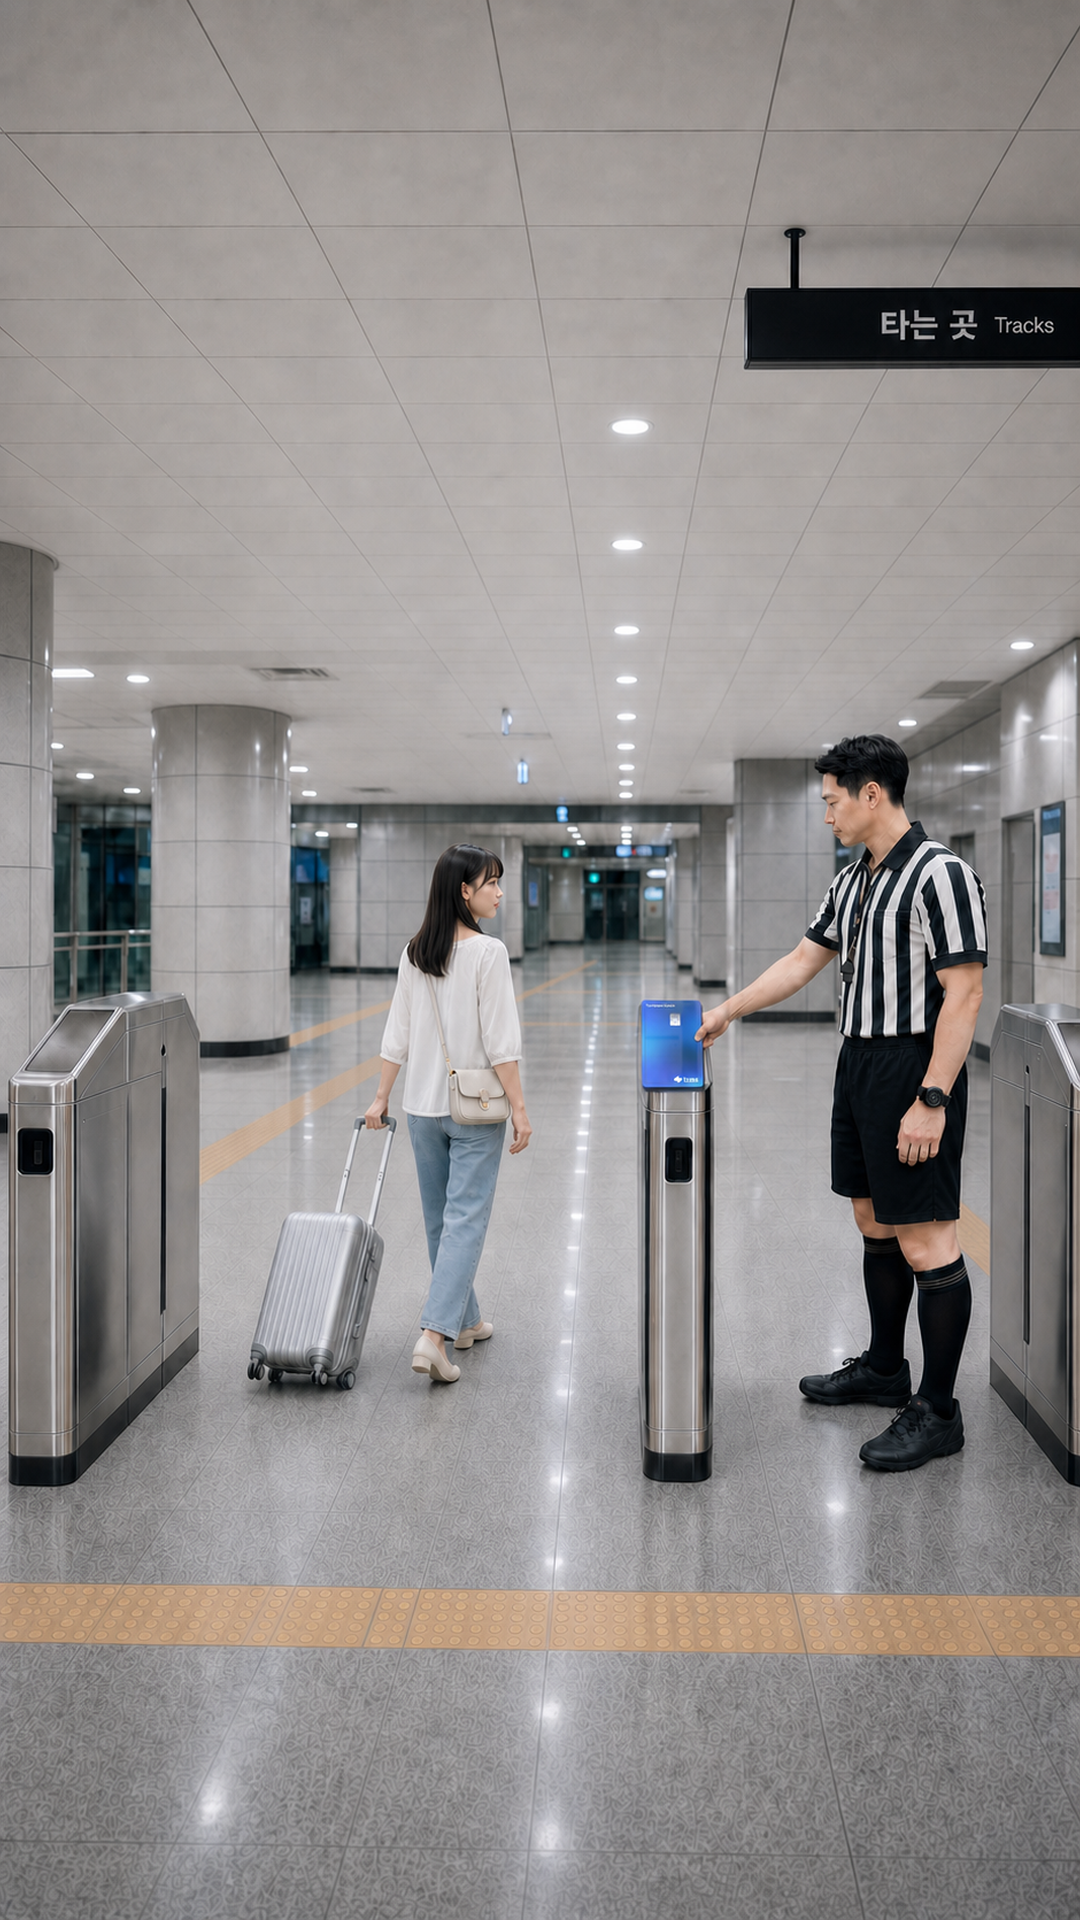
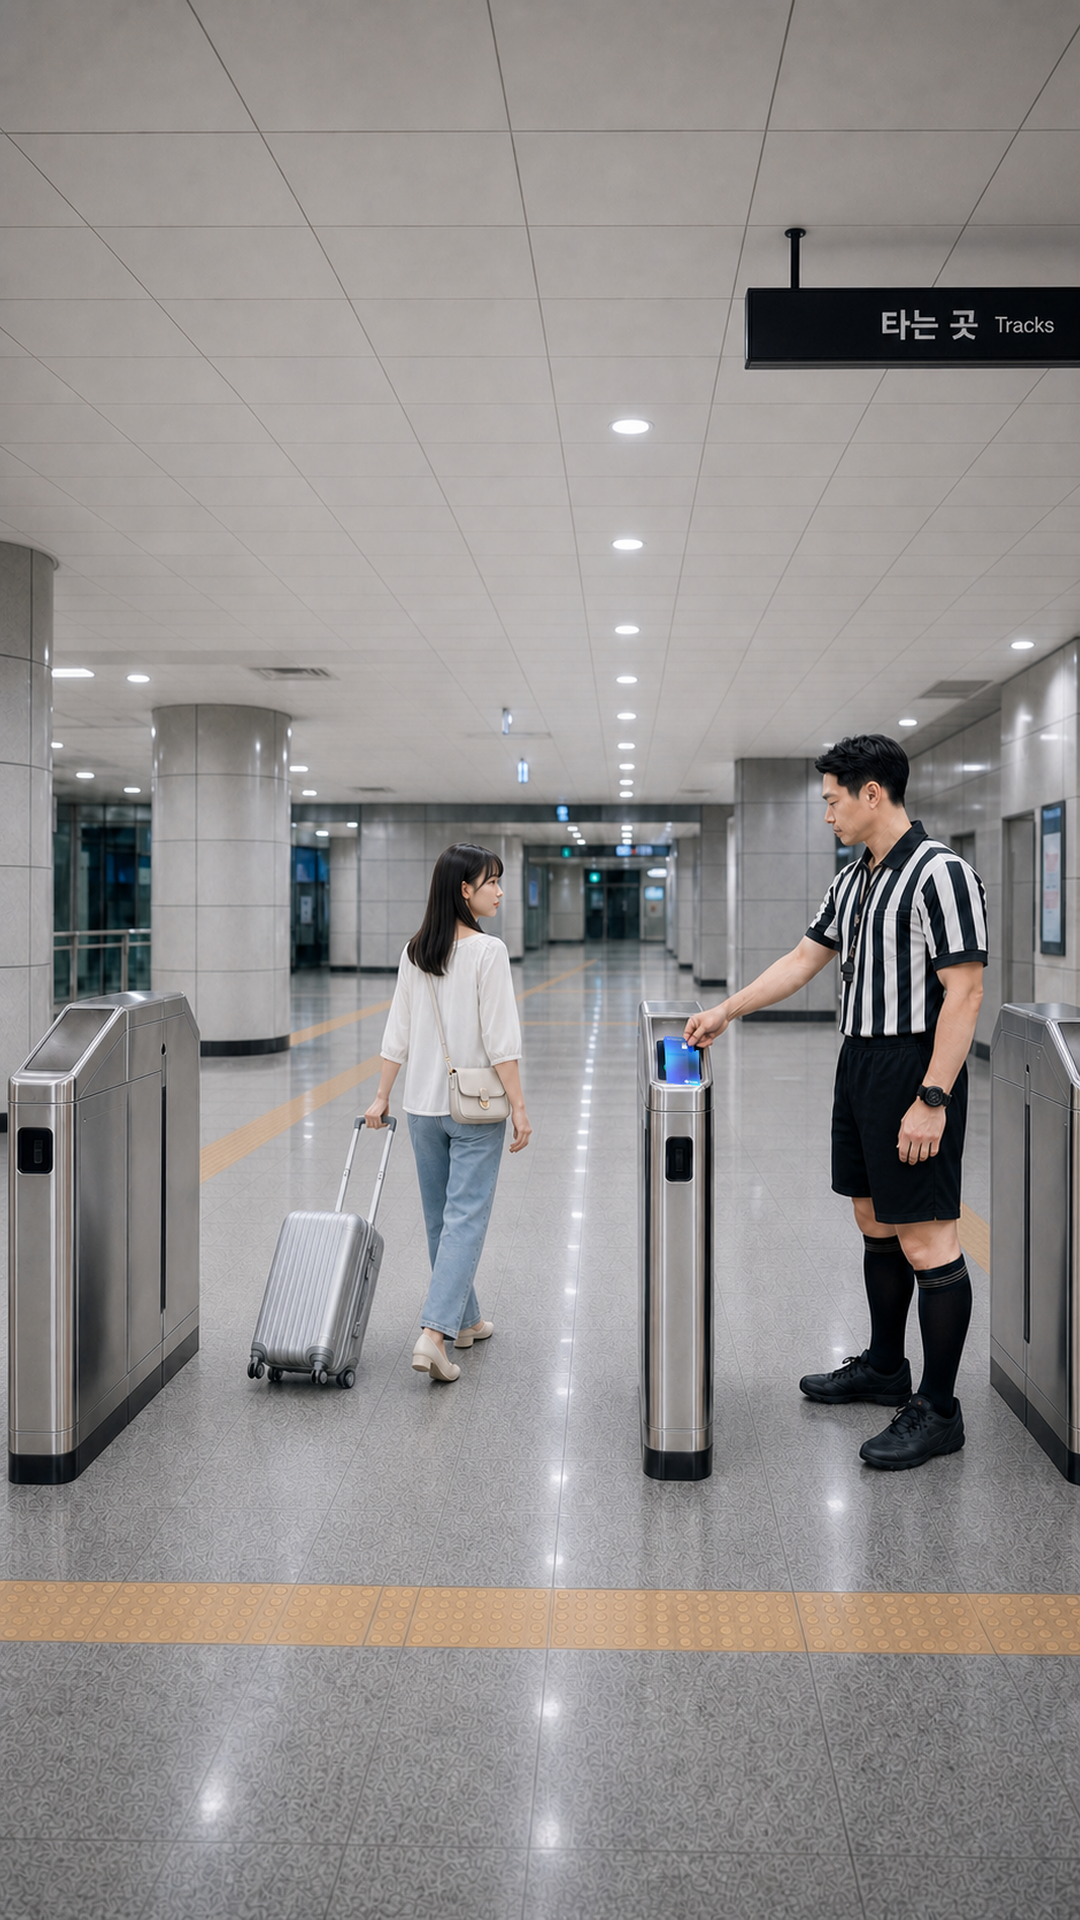
fix: composite exact locked card artwork

diff --git a/edit/storyboard_gpt2/review/qa-report.md b/edit/storyboard_gpt2/review/qa-report.md
@@ -4,6 +4,8 @@
 
 **PASS** — 한국 지하철의 구조적 사실감, 인물·제품 일관성, 세 번 실패의 편집 리듬, 오른쪽 복도 축, 심판 공개·카드 태그·완전 개방 엔딩을 모두 확인했다.
 
+제품 표면은 생성 모델이 글자나 로고를 다시 그린 것이 아니다. `tools/composite_locked_cards.ps1`이 `07df225` 장면 베이스의 인물·손·게이트를 보존한 채, 공식 PNG(SHA-256 `52294CAE…F1FDA`)를 고정 좌표 affine 매핑으로 S12·S13 카드 면에 합성했다. S02는 같은 도구로 카드 면 범위만 무광 차콜로 교체했다.
+
 ## 공간 앵커
 
 | 앵커 | 판정 | 검수 내용 |
@@ -18,7 +20,7 @@
 | 컷 | 판정 | 핵심 확인 |
 |---|---|---|
 | S01 | PASS | A05의 빈 개찰구 홀과 물리적 Tracks 패널을 먼저 보여 장소·진행 방향이 즉시 읽힌다. |
-| S02 | PASS | 첫 실패. 관광객의 엄격한 뒷모습, 마지막 반 걸음, 뒤왼쪽으로 굴러오는 캐리어, 오른손의 경계가 분명한 중성 무광 다크그레이 카드와 G3 X가 확인된다. |
+| S02 | PASS | `07df225` 첫 실패 베이스의 엄격한 뒷모습·오른손·G3 빨간 X·닫힌 플랩·뒤왼쪽 캐리어를 보존했다. 글자·로고 없는 중성 무광 차콜 카드 면만 고정 좌표로 합성했다. |
 | S03 | PASS | 두 번째 실패의 메인 비트. 같은 리더·가방·회색 카드·오른손을 유지한다. |
 | S03A | PASS | 두 번째 실패의 45도 하이 앵글 제어 프레임. 작은 손목 보정과 리더 X가 명확하다. |
 | S03B | PASS | 세 번째 실패의 reader-level 바텀 제어 프레임. 카드·오른손 전경과 아래쪽 접점 시선이 유지된다. |
@@ -32,15 +34,15 @@
 | S09 | PASS | A05 게이트 옆 투샷에서 관광객은 왼쪽, 심판은 오른쪽, 둘 사이에 리더가 있어 관계가 명확하다. |
 | S10 | PASS | 심판이 오른손으로 가슴 주머니에서 정확한 TOSS 카드 상단 약 1/3만 꺼내며 왼손목 시계가 남아 있다. |
 | S11 | PASS | 정확한 카드 한 장만 오른손으로 높이 든다. 블루·골드 방사광은 카드 뒤에만 제한된다. |
-| S12 | PASS | 심판은 게이트 오른쪽에 서서 시계 없는 **오른손**으로 태그한다. 검은 시계가 있는 **왼손목**은 아래에 있고 리더는 녹색 성공 상태다. 정식 제품 PNG의 은색 칩, `Toss Prepaid Card`, 하단 `toss` 심벌·워드마크가 한 장의 세로 카드에 식별된다. |
-| S13 | PASS | G3 양쪽 플랩은 하우징 안으로 완전히 수납되어 보행·캐리어 통로가 비어 있다. 심판의 오른손 태그·내린 왼손목 시계·상단 좌측 30–35% 카피 여백이 유지된다. 카드가 적정 크기로 확대되어 정식 칩·상단 타이틀·하단 `toss` 워드마크가 식별되며 실제 Tracks 패널은 상단 오른쪽에 남는다. |
+| S12 | PASS | `07df225` 생성 장면의 심판·오른손 그립·내린 왼손목 시계·녹색 리더를 보존했다. 공식 PNG를 `(223,771)-(287,781)-(239,850)` 카드 평면에 결정적으로 합성해 은색 칩·`Toss Prepaid Card`·`toss` 워드마크는 AI 의사 글자가 아닌 공식 소스 픽셀이다. |
+| S13 | PASS | `07df225` 승인 엔딩을 베이스로 사용해, 양쪽 플랩 완전 수납·빈 보행/캐리어 통로·인물 y=600 아래·상단 좌측 35% 여백·오른손 태그·내린 왼손목 시계를 보존했다. 공식 PNG를 `(578,901)-(608,903)-(580,943)`의 작고 현실적인 카드 평면에 합성했다. |
 
 ## 연속성·제품 체크
 
 - PASS — 관광객은 `tourist_lock_JP_v2.jpg`의 동일 인물·의상·가방·캐리어를 유지한다.
 - PASS — 심판은 `referee_lock_A.png`의 동일 얼굴·유니폼·호루라기·시계를 유지한다.
 - PASS — 실패는 정확히 세 번(S02, S03A, S03B)이며 모두 동일 무광 회색 일반 카드와 관광객의 오른손으로 이뤄진다. S04는 반응만이다.
-- PASS — TOSS 제품은 S10에서 부분 공개, S11–S13에서만 정확한 세로 카드 한 장으로 보이며 S12·S13은 정식 PNG의 칩·타이틀·`toss` 워드마크를 식별 가능하게 유지한다.
+- PASS — TOSS 제품은 S10에서 부분 공개, S11–S13에서만 세로 카드 한 장으로 보인다. S12·S13의 칩·타이틀·`toss` 워드마크는 생성 모델이 다시 그린 것이 아니라 공식 PNG 픽셀을 고정 affine 합성한 것이다.
 - PASS — 공개 순서는 실패음 → 호루라기 붐업 → 심판 전신/접근 → 카드 추출 → 카드 선언 → 오른손 성공 태그 → 통과로 유지된다.
 - PASS — S06·S08은 A06 축을 공유하고, S09–S13은 A05로 돌아온다. S06에는 게이트·관광객·Tracks 패널이 없다.
 - PASS — S12·S13 모두 오른손 태그와 아래로 내린 왼손목 시계를 유지해 좌우 반전 오류가 없다.

diff --git a/README.md b/README.md
@@ -10,6 +10,7 @@
 - 실패는 세 번만 발생합니다: 후면 와이드 → 하이 앵글 → 리더 높이 바텀뷰. 세 번째 실패 뒤에만 얼굴 반응을 둡니다.
 - S05는 심판의 풋살화에서 호루라기 얼굴까지 실제로 올라가는 붐업, S06은 관광객 없는 심판 단독 전신입니다.
 - S13은 G3 양쪽 플랩이 하우징 안으로 완전히 수납되고, 오른손 TOSS 태그·내린 왼손목 시계·상단 좌측 카피 안전영역을 갖습니다.
+- S02·S12·S13의 장면·인물·손·게이트는 승인된 생성 베이스를 보존하고, 카드 면만 [고정 좌표 합성 스크립트](edit/storyboard_gpt2/tools/composite_locked_cards.ps1)로 재현 가능하게 교정했습니다. S12·S13의 제품 글자·칩·로고는 AI 의사 텍스트가 아닌 공식 PNG 소스 픽셀입니다.
 
 ## 바로 보기
 
@@ -47,7 +48,7 @@
 edit/storyboard_gpt2/
 ├─ anchors/                 # A05 개찰구 홀, A06 오른쪽 복도 구조 앵커
 ├─ source_sketches/         # 사용자가 제공한 S01–S13 스토리보드 스케치
-├─ frames/raw/              # GPT Image 원본 메인 프레임
+├─ frames/raw/              # GPT Image 장면 + S02/S12/S13 고정 카드 면 합성
 ├─ frames/final/            # 정규화된 메인 납품 프레임 S01–S13
 ├─ frames/auxiliary/raw/    # 보조 제어 프레임 원본
 ├─ frames/auxiliary/        # 정규화된 S03A/S03B/S05A/S05B
